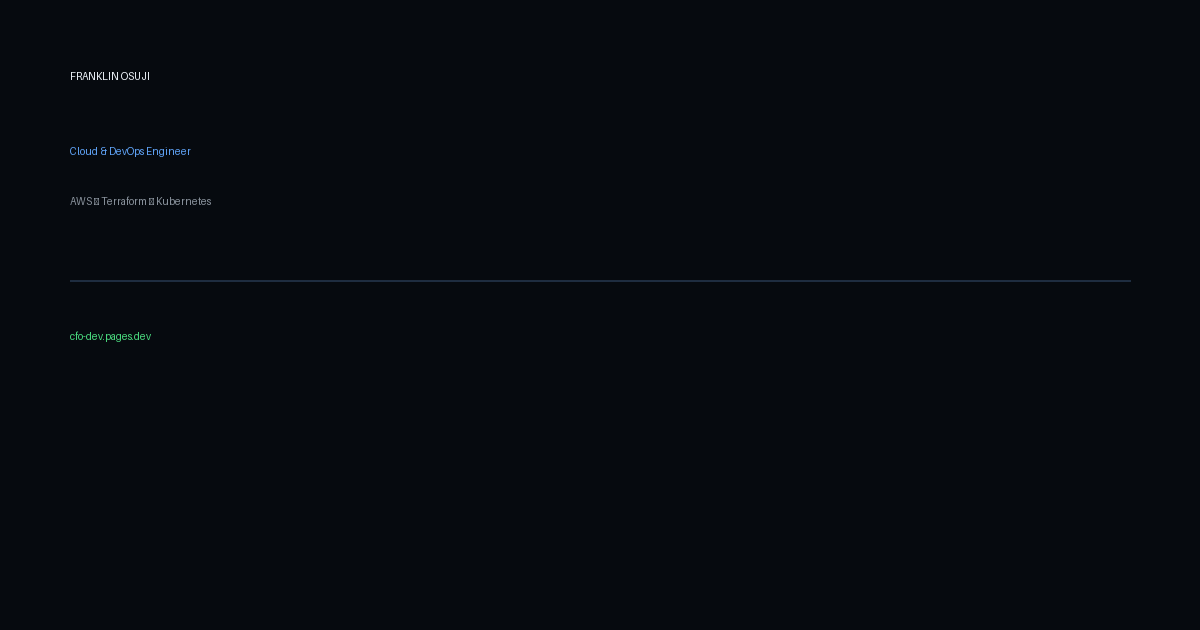
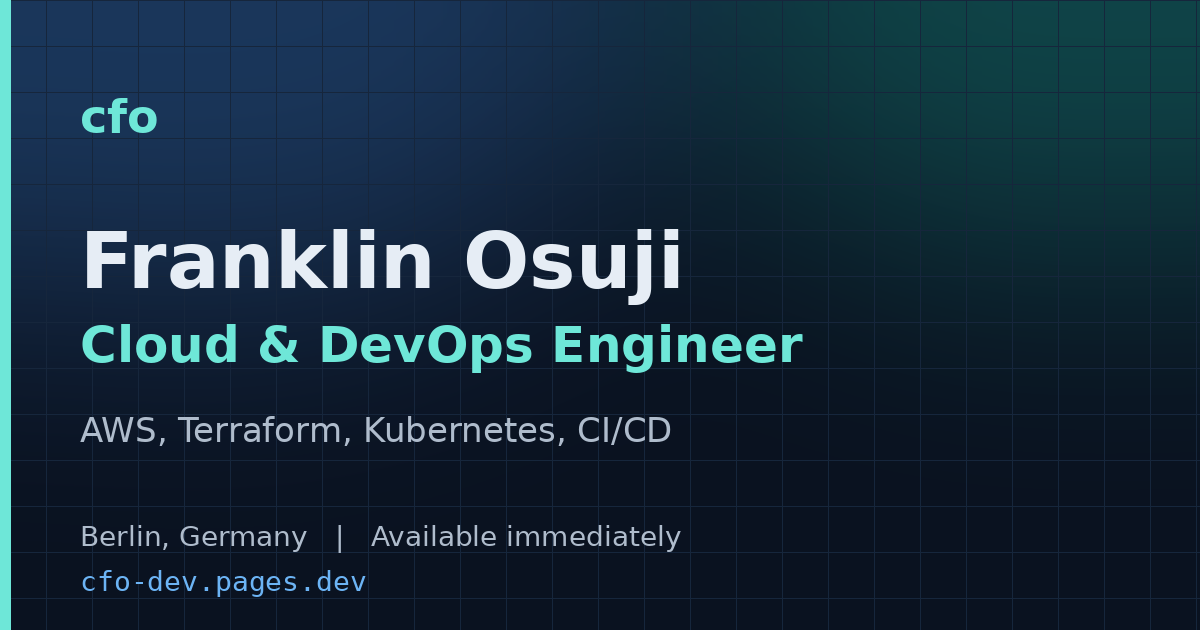
Redesign: new colour scheme, coloured headings, cfo brand

diff --git a/app/globals.css b/app/globals.css
@@ -1,38 +1,53 @@
-@import url("https://fonts.googleapis.com/css2?family=IBM+Plex+Mono:wght@400;500&family=IBM+Plex+Sans:wght@400;500;600&display=swap");
+@import url("https://fonts.googleapis.com/css2?family=IBM+Plex+Mono:wght@400;500&family=IBM+Plex+Sans:wght@400;500;600&family=Sora:wght@600;700&display=swap");
 @tailwind base;
 @tailwind components;
 @tailwind utilities;
 
-/* Palette: navy base taken from the CV (#16324A family), one blue accent, status colours only where they carry meaning. */
+/* Palette: deep navy base from the CV, a teal-mint colour reserved for headings, a blue accent for links and buttons.
+   Status colours (green, amber) appear only on credential status. */
 :root,
 [data-theme="dark"] {
-  --bg: #0b1520;
-  --bg-alt: #0e1b2a;
-  --surface: #12243a;
-  --border: #223a52;
-  --text: #e8eef4;
-  --text-2: #a7b6c6;
-  --text-3: #7a8ca0;
-  --accent: #5aa9e6;
-  --accent-ink: #06121f;
-  --ok: #2dd4bf;
-  --warn: #f59e0b;
-  --focus: #8cc4f0;
+  --bg: #0a1220;
+  --bg-alt: #0d182a;
+  --surface: #111f34;
+  --surface-2: #15263e;
+  --border: #1f3550;
+  --border-strong: #2c4666;
+  --text: #afbccc;
+  --text-strong: #e6edf5;
+  --text-3: #7e91a8;
+  --heading: #6ee7d8;
+  --accent: #6cb4f5;
+  --accent-ink: #07111f;
+  --ok: #4ade80;
+  --warn: #f5b04a;
+  --focus: #9cccf8;
+  --glow-1: rgba(70, 130, 205, 0.24);
+  --glow-2: rgba(45, 212, 191, 0.13);
+  --grid: rgba(120, 165, 215, 0.075);
+  --shadow: 0 28px 60px -30px rgba(0, 0, 0, 0.7);
 }
 
 [data-theme="light"] {
-  --bg: #f7f9fc;
-  --bg-alt: #eef3f9;
+  --bg: #f3f7fb;
+  --bg-alt: #e9f0f7;
   --surface: #ffffff;
-  --border: #d5dfea;
-  --text: #14202e;
-  --text-2: #41546a;
-  --text-3: #5c6f84;
+  --surface-2: #f7fafd;
+  --border: #d2deea;
+  --border-strong: #b8cadb;
+  --text: #34465b;
+  --text-strong: #14202e;
+  --text-3: #5a6d82;
+  --heading: #0b6e75;
   --accent: #1f5f99;
   --accent-ink: #ffffff;
-  --ok: #0f766e;
+  --ok: #15803d;
   --warn: #b45309;
   --focus: #1f5f99;
+  --glow-1: rgba(70, 130, 205, 0.16);
+  --glow-2: rgba(45, 212, 191, 0.16);
+  --grid: rgba(30, 80, 130, 0.07);
+  --shadow: 0 24px 50px -28px rgba(20, 50, 90, 0.35);
 }
 
 * { box-sizing: border-box; }
@@ -56,10 +71,12 @@ a:focus-visible, button:focus-visible { outline: 2px solid var(--focus); outline
 
 code { font-family: "IBM Plex Mono", ui-monospace, Menlo, Consolas, monospace; font-size: 0.85rem; }
 
-h1, h2, h3, h4 { margin: 0; color: var(--text); }
+/* All headings share one colour that differs from the body text */
+h1, h2, h3, h4 { margin: 0; color: var(--heading); font-family: "Sora", "IBM Plex Sans", system-ui, sans-serif; }
 
-.container { max-width: 1080px; margin: 0 auto; padding: 0 24px; }
+.container { max-width: 1080px; margin: 0 auto; padding: 0 24px; position: relative; }
 .container.narrow > * { max-width: 760px; }
+.container.narrow > .steps { max-width: none; }
 
 .skip-link { position: absolute; left: -999px; top: 8px; background: var(--accent); color: var(--accent-ink); padding: 8px 12px; z-index: 50; border-radius: 4px; }
 .skip-link:focus { left: 12px; }
@@ -69,134 +86,162 @@ h1, h2, h3, h4 { margin: 0; color: var(--text); }
   display: inline-block;
   background: var(--accent);
   color: var(--accent-ink);
-  padding: 10px 16px;
+  padding: 10px 18px;
   border: 1px solid var(--accent);
-  border-radius: 4px;
+  border-radius: 6px;
   font: inherit;
   font-size: 0.9rem;
   font-weight: 600;
   text-decoration: none;
   cursor: pointer;
+  box-shadow: 0 8px 20px -10px var(--accent);
 }
 .btn:hover { text-decoration: none; filter: brightness(1.08); }
-.btn-quiet { background: transparent; color: var(--text); border-color: var(--border); }
-.btn-quiet:hover { border-color: var(--text-3); filter: none; }
-.btn-small { padding: 6px 12px; font-size: 0.85rem; }
+.btn-quiet { background: transparent; color: var(--text-strong); border-color: var(--border-strong); box-shadow: none; }
+.btn-quiet:hover { border-color: var(--heading); filter: none; }
+.btn-small { padding: 6px 12px; font-size: 0.85rem; box-shadow: none; }
 .text-link { color: var(--accent); font-size: 0.92rem; }
 
 /* Navigation */
-.nav { position: sticky; top: 0; z-index: 40; background: var(--bg); border-bottom: 1px solid var(--border); }
-.nav-inner { display: flex; align-items: center; justify-content: space-between; min-height: 60px; gap: 16px; }
-.nav-brand { color: var(--text); font-weight: 600; text-decoration: none; }
-.nav-brand:hover { text-decoration: none; }
+.nav { position: sticky; top: 0; z-index: 40; background: color-mix(in srgb, var(--bg) 88%, transparent); backdrop-filter: blur(10px); border-bottom: 1px solid var(--border); }
+.nav-inner { display: flex; align-items: center; justify-content: space-between; min-height: 62px; gap: 16px; }
+.nav-brand { font-family: "Sora", system-ui, sans-serif; font-size: 1.35rem; font-weight: 700; letter-spacing: -0.02em; color: var(--heading); text-decoration: none; }
+.nav-brand:hover { text-decoration: none; filter: brightness(1.1); }
 .nav-links { display: flex; align-items: center; gap: 22px; }
-.nav-links > a:not(.btn) { color: var(--text-2); font-size: 0.9rem; text-decoration: none; }
-.nav-links > a:not(.btn):hover { color: var(--text); }
+.nav-links > a:not(.btn) { color: var(--text); font-size: 0.9rem; text-decoration: none; }
+.nav-links > a:not(.btn):hover { color: var(--text-strong); }
 .theme-toggle, .nav-menu {
-  background: transparent; color: var(--text-2); border: 1px solid var(--border); border-radius: 4px;
+  background: transparent; color: var(--text); border: 1px solid var(--border-strong); border-radius: 6px;
   padding: 6px 10px; font: inherit; font-size: 0.82rem; cursor: pointer;
 }
-.theme-toggle:hover, .nav-menu:hover { color: var(--text); border-color: var(--text-3); }
+.theme-toggle:hover, .nav-menu:hover { color: var(--text-strong); border-color: var(--heading); }
 .nav-menu { display: none; }
 
-/* Hero */
-.hero { padding: 72px 0 80px; }
+/* Hero: soft colour wash plus a faint blueprint grid that fades out */
+.hero { position: relative; overflow: hidden; padding: 80px 0 92px; }
+.hero::before {
+  content: ""; position: absolute; inset: 0; pointer-events: none;
+  background:
+    radial-gradient(900px 440px at 8% -12%, var(--glow-1), transparent 70%),
+    radial-gradient(720px 400px at 96% 6%, var(--glow-2), transparent 70%);
+}
+.hero::after {
+  content: ""; position: absolute; inset: 0; pointer-events: none;
+  background-image: linear-gradient(var(--grid) 1px, transparent 1px), linear-gradient(90deg, var(--grid) 1px, transparent 1px);
+  background-size: 46px 46px;
+  -webkit-mask-image: linear-gradient(to bottom, #000 0%, transparent 80%);
+  mask-image: linear-gradient(to bottom, #000 0%, transparent 80%);
+}
 .hero-grid { display: grid; grid-template-columns: minmax(0, 1.3fr) minmax(0, 0.7fr); gap: 56px; align-items: start; }
-.hero-name { margin: 0 0 14px; color: var(--text-2); font-weight: 500; }
-.hero h1 { font-size: clamp(2.1rem, 4vw, 3.1rem); line-height: 1.08; letter-spacing: -0.02em; font-weight: 600; }
-.hero-lead { margin: 22px 0 28px; max-width: 58ch; color: var(--text-2); font-size: 1.125rem; }
+.hero-name { margin: 0 0 14px; color: var(--accent); font-weight: 500; letter-spacing: 0.01em; }
+.hero h1 { font-size: clamp(2.1rem, 4vw, 3.1rem); line-height: 1.1; letter-spacing: -0.025em; font-weight: 700; }
+.hero-lead { margin: 22px 0 28px; max-width: 58ch; color: var(--text); font-size: 1.125rem; }
 
 .facts { margin: 0 0 30px; max-width: 640px; }
 .facts > div { display: grid; grid-template-columns: 104px 1fr; gap: 16px; padding: 8px 0; border-top: 1px solid var(--border); }
 .facts > div:last-child { border-bottom: 1px solid var(--border); }
 .facts dt { color: var(--text-3); font-size: 0.875rem; }
-.facts dd { margin: 0; font-size: 0.95rem; }
+.facts dd { margin: 0; font-size: 0.95rem; color: var(--text-strong); }
 
 .hero-actions { display: flex; flex-wrap: wrap; align-items: center; gap: 12px 18px; }
 
-/* Build panel: the one place that moves, once, on page load */
-.build-panel { background: var(--surface); border: 1px solid var(--border); border-radius: 6px; padding: 22px; }
-.build-panel h2 { font-size: 1rem; font-weight: 600; margin-bottom: 8px; }
-.stages { list-style: none; margin: 0 0 14px; padding: 0; }
-.stages li {
-  display: flex; justify-content: space-between; align-items: baseline; gap: 12px;
-  padding: 10px 0; border-top: 1px solid var(--border);
-  opacity: 0; animation: stage-in 0.45s ease-out forwards;
+/* Build panel: stages sit on a connected line, appearing one after another once on load */
+.build-panel {
+  background: linear-gradient(180deg, var(--surface-2), var(--surface));
+  border: 1px solid var(--border-strong); border-radius: 10px; padding: 24px; box-shadow: var(--shadow);
 }
-.stage-name { font-size: 0.95rem; }
+.build-panel h2 { font-size: 1rem; font-weight: 600; margin-bottom: 12px; }
+.stages { list-style: none; margin: 0 0 16px; padding: 0 0 0 26px; }
+.stages li {
+  position: relative; display: flex; justify-content: space-between; align-items: baseline; gap: 12px;
+  padding: 11px 0; opacity: 0; animation: stage-in 0.45s ease-out forwards;
+}
+.stages li::before {
+  content: ""; position: absolute; left: -26px; top: 50%; width: 10px; height: 10px; margin-top: -5px; border-radius: 50%;
+  background: var(--heading); box-shadow: 0 0 0 4px color-mix(in srgb, var(--heading) 18%, transparent);
+}
+.stages li:not(:last-child)::after {
+  content: ""; position: absolute; left: -22px; top: calc(50% + 6px); width: 2px; height: calc(100% - 2px); background: var(--border-strong);
+}
+.stage-name { font-size: 0.95rem; color: var(--text-strong); }
 .stages code { color: var(--text-3); }
 @keyframes stage-in { from { opacity: 0; transform: translateX(-8px); } to { opacity: 1; transform: none; } }
 
 .build-meta { margin: 0 0 16px; }
-.build-meta > div { display: flex; justify-content: space-between; gap: 12px; padding: 6px 0; border-top: 1px solid var(--border); font-size: 0.875rem; }
+.build-meta > div { display: flex; justify-content: space-between; gap: 12px; padding: 7px 0; border-top: 1px solid var(--border); font-size: 0.875rem; }
 .build-meta dt { color: var(--text-3); }
-.build-meta dd { margin: 0; text-align: right; overflow-wrap: anywhere; }
+.build-meta dd { margin: 0; text-align: right; overflow-wrap: anywhere; color: var(--text-strong); }
 .build-meta a { text-decoration: none; }
 .build-status { display: flex; align-items: center; justify-content: space-between; gap: 12px; flex-wrap: wrap; }
 .build-status img { display: block; height: 20px; width: auto; min-width: 96px; }
 
 /* Sections */
-.section { padding: 72px 0; border-top: 1px solid var(--border); }
-.section h2 { font-size: 1.75rem; line-height: 1.2; letter-spacing: -0.01em; font-weight: 600; margin-bottom: 12px; }
-.section-intro { margin: 0 0 40px; max-width: 62ch; color: var(--text-2); }
+.section { padding: 80px 0; border-top: 1px solid var(--border); }
+.section-alt { background: var(--bg-alt); }
+.section h2 { font-size: 1.85rem; line-height: 1.2; letter-spacing: -0.02em; font-weight: 700; margin-bottom: 12px; }
+.section-intro { margin: 0 0 44px; max-width: 62ch; color: var(--text); }
 .plain-list { list-style: none; margin: 0; padding: 0; }
-.plain-list li { position: relative; padding-left: 18px; margin: 6px 0; }
-.plain-list li::before { content: ""; position: absolute; left: 0; top: 0.8em; width: 8px; height: 1px; background: var(--text-3); }
+.plain-list li { position: relative; padding-left: 20px; margin: 7px 0; }
+.plain-list li::before { content: ""; position: absolute; left: 0; top: 0.75em; width: 9px; height: 2px; border-radius: 1px; background: var(--heading); opacity: 0.7; }
 
 /* Projects */
-.project { display: grid; grid-template-columns: minmax(0, 0.9fr) minmax(0, 1.1fr); gap: 44px; padding: 44px 0; border-top: 1px solid var(--border); align-items: start; }
+.project { display: grid; grid-template-columns: minmax(0, 0.9fr) minmax(0, 1.1fr); gap: 48px; padding: 48px 0; border-top: 1px solid var(--border); align-items: start; }
 .project:first-of-type { border-top: 0; padding-top: 8px; }
-.project h3 { font-size: 1.5rem; font-weight: 600; letter-spacing: -0.01em; }
-.project h3 a { color: var(--text); text-decoration: none; }
-.project h3 a:hover { color: var(--accent); }
-.project-lead { margin: 10px 0 4px; color: var(--text-2); max-width: 56ch; }
-.project h4 { margin: 22px 0 6px; font-size: 0.875rem; font-weight: 600; color: var(--text-3); }
-.stack { margin: 0; color: var(--text-2); font-size: 0.92rem; }
+.project h3 { font-size: 1.5rem; font-weight: 700; letter-spacing: -0.02em; }
+.project h3 a { color: var(--heading); text-decoration: none; }
+.project h3 a:hover { text-decoration: underline; }
+.project-lead { margin: 10px 0 4px; color: var(--text-strong); max-width: 56ch; }
+.project h4 { margin: 22px 0 6px; font-size: 0.875rem; font-weight: 600; }
+.stack { margin: 0; color: var(--text); font-size: 0.92rem; }
 .project-text p { margin: 14px 0 0; }
-.project-figure { margin: 0; background: var(--surface); border: 1px solid var(--border); border-radius: 4px; overflow: hidden; }
+.project-figure { margin: 0; background: var(--surface); border: 1px solid var(--border-strong); border-radius: 8px; overflow: hidden; box-shadow: var(--shadow); }
 .project-figure img { display: block; width: 100%; height: auto; }
-.project-figure figcaption { padding: 8px 12px; color: var(--text-3); font-size: 0.82rem; border-top: 1px solid var(--border); }
+.project-figure figcaption { padding: 9px 14px; color: var(--text-3); font-size: 0.82rem; border-top: 1px solid var(--border); }
 .also-built { padding-top: 36px; border-top: 1px solid var(--border); }
 .also-built h3 { font-size: 1.05rem; font-weight: 600; margin-bottom: 6px; }
-.also-built p { margin: 0; color: var(--text-2); max-width: 70ch; }
+.also-built p { margin: 0; color: var(--text); max-width: 70ch; }
 
-/* How this site is built */
-.steps { list-style: none; margin: 0 0 28px; padding: 0; counter-reset: step; }
-.steps li { counter-increment: step; position: relative; padding: 18px 0 18px 52px; border-top: 1px solid var(--border); }
-.steps li:last-child { border-bottom: 1px solid var(--border); }
-.steps li::before { content: counter(step); position: absolute; left: 0; top: 20px; font-family: "IBM Plex Mono", ui-monospace, monospace; color: var(--text-3); }
+/* How this site is built: a connected three-step line */
+.steps { list-style: none; margin: 8px 0 32px; padding: 0; counter-reset: step; display: grid; grid-template-columns: repeat(3, minmax(0, 1fr)); gap: 28px; }
+.steps li { counter-increment: step; position: relative; padding-top: 58px; }
+.steps li::before {
+  content: counter(step); position: absolute; top: 0; left: 0; width: 38px; height: 38px; border-radius: 50%;
+  display: grid; place-items: center; font-family: "IBM Plex Mono", ui-monospace, monospace; font-weight: 500;
+  color: var(--heading); border: 1.5px solid var(--heading); background: var(--bg-alt);
+}
+.steps li:not(:last-child)::after { content: ""; position: absolute; top: 19px; left: 48px; right: -18px; height: 2px; background: var(--border-strong); }
 .steps h3 { font-size: 1.05rem; font-weight: 600; }
-.steps p { margin: 4px 0 0; color: var(--text-2); }
+.steps p { margin: 6px 0 0; color: var(--text); font-size: 0.95rem; }
 .link-row { display: flex; gap: 20px; flex-wrap: wrap; margin: 12px 0 0; }
 
 /* Experience */
-.role { display: grid; grid-template-columns: 210px minmax(0, 1fr); gap: 32px; padding: 30px 0; border-top: 1px solid var(--border); }
+.role { display: grid; grid-template-columns: 210px minmax(0, 1fr); gap: 32px; padding: 32px 0; border-top: 1px solid var(--border); }
 .role:first-of-type { border-top: 0; padding-top: 8px; }
-.dates { margin: 0; font-weight: 500; }
+.dates { margin: 0; font-weight: 600; color: var(--accent); }
 .role-type { margin: 2px 0 0; color: var(--text-3); font-size: 0.875rem; }
 .role h3 { font-size: 1.15rem; font-weight: 600; }
-.company { margin: 2px 0 10px; color: var(--text-2); }
-.earlier { margin: 14px 0 0; padding-top: 24px; border-top: 1px solid var(--border); color: var(--text-2); }
+.company { margin: 3px 0 10px; color: var(--text-strong); }
+.earlier { margin: 14px 0 0; padding-top: 24px; border-top: 1px solid var(--border); color: var(--text); }
 
 /* Skills */
-.skill-groups { display: grid; grid-template-columns: repeat(2, minmax(0, 1fr)); gap: 36px 56px; }
-.skill-group h3 { font-size: 1rem; font-weight: 600; padding-bottom: 8px; border-bottom: 1px solid var(--border); margin-bottom: 8px; }
+.skill-groups { display: grid; grid-template-columns: repeat(2, minmax(0, 1fr)); gap: 24px; }
+.skill-group { background: var(--surface); border: 1px solid var(--border); border-radius: 10px; padding: 22px 24px 20px; }
+.skill-group h3 { font-size: 1rem; font-weight: 600; padding-bottom: 10px; border-bottom: 1px solid var(--border); margin-bottom: 6px; }
 .skill-group dl { margin: 0; }
-.skill-group dt { font-weight: 500; margin-top: 10px; }
-.skill-group dd { margin: 0; color: var(--text-2); font-size: 0.92rem; }
-.also { margin: 40px 0 0; color: var(--text-2); }
+.skill-group dt { font-weight: 500; margin-top: 12px; color: var(--text-strong); }
+.skill-group dd { margin: 0; color: var(--text); font-size: 0.92rem; }
+.also { margin: 36px 0 0; color: var(--text); }
 
 /* Credentials */
 .credentials { list-style: none; margin: 24px 0 0; padding: 0; }
-.credentials li { display: flex; justify-content: space-between; gap: 24px; padding: 18px 0; border-top: 1px solid var(--border); }
+.credentials li { display: flex; justify-content: space-between; align-items: center; gap: 24px; padding: 18px 0; border-top: 1px solid var(--border); }
 .credentials li:last-child { border-bottom: 1px solid var(--border); }
 .credentials h3 { font-size: 1rem; font-weight: 600; }
-.issuer { margin: 2px 0 0; color: var(--text-2); font-size: 0.9rem; }
-.credential-side { text-align: right; flex-shrink: 0; }
-.status { margin: 0; font-size: 0.9rem; font-weight: 500; }
+.issuer { margin: 2px 0 0; color: var(--text); font-size: 0.9rem; }
+.credential-side { text-align: right; flex-shrink: 0; display: flex; flex-direction: column; align-items: flex-end; gap: 4px; }
+.status { margin: 0; display: inline-block; padding: 2px 11px; border: 1px solid currentColor; border-radius: 999px; font-size: 0.82rem; font-weight: 500; }
 .status-done { color: var(--ok); }
 .status-progress { color: var(--warn); }
-.credential-side .text-link { display: inline-block; margin-top: 2px; }
 
 /* Contact and footer */
 .contact-list { list-style: none; margin: 0; padding: 0; }
@@ -212,15 +257,21 @@ h1, h2, h3, h4 { margin: 0; color: var(--text); }
   .skill-groups { grid-template-columns: 1fr; }
   .role { grid-template-columns: 1fr; gap: 6px; }
   .nav-menu { display: inline-block; }
-  .nav-links { display: none; position: absolute; top: 60px; left: 0; right: 0; flex-direction: column; align-items: flex-start; gap: 14px; padding: 18px 24px 24px; background: var(--bg); border-bottom: 1px solid var(--border); }
+  .nav-links { display: none; position: absolute; top: 62px; left: 0; right: 0; flex-direction: column; align-items: flex-start; gap: 14px; padding: 18px 24px 24px; background: var(--bg); border-bottom: 1px solid var(--border); }
   .nav-links.open { display: flex; }
 }
+@media (max-width: 760px) {
+  .steps { grid-template-columns: 1fr; gap: 8px; }
+  .steps li { padding: 4px 0 20px 56px; }
+  .steps li::before { top: 2px; }
+  .steps li:not(:last-child)::after { top: 44px; left: 18px; right: auto; width: 2px; height: calc(100% - 38px); }
+}
 @media (max-width: 560px) {
-  .hero { padding: 48px 0 56px; }
-  .section { padding: 52px 0; }
+  .hero { padding: 52px 0 60px; }
+  .section { padding: 56px 0; }
   .facts > div { grid-template-columns: 90px 1fr; gap: 12px; }
-  .credentials li { flex-direction: column; gap: 6px; }
-  .credential-side { text-align: left; }
+  .credentials li { flex-direction: column; align-items: flex-start; gap: 8px; }
+  .credential-side { text-align: left; align-items: flex-start; }
 }
 
 @media (prefers-reduced-motion: reduce) {

diff --git a/components/Pipeline.tsx b/components/Pipeline.tsx
@@ -19,7 +19,7 @@ export default function Pipeline() {
   const build = getBuildInfo()
 
   return (
-    <section id="pipeline" className="section" aria-labelledby="pipeline-title">
+    <section id="pipeline" className="section section-alt" aria-labelledby="pipeline-title">
       <div className="container narrow">
         <h2 id="pipeline-title">How this site is built</h2>
         <p className="section-intro">

diff --git a/components/Skills.tsx b/components/Skills.tsx
@@ -66,7 +66,7 @@ const groups: Group[] = [
 
 export default function Skills() {
   return (
-    <section id="skills" className="section" aria-labelledby="skills-title">
+    <section id="skills" className="section section-alt" aria-labelledby="skills-title">
       <div className="container">
         <h2 id="skills-title">Skills</h2>
         <p className="section-intro">

diff --git a/components/Nav.tsx b/components/Nav.tsx
@@ -19,7 +19,7 @@ export default function Nav() {
   return (
     <header className="nav">
       <div className="container nav-inner">
-        <a className="nav-brand" href="#top">Franklin Osuji</a>
+        <a className="nav-brand" href="#top" aria-label="Franklin Osuji, back to top">cfo</a>
         <button
           className="nav-menu"
           type="button"

diff --git a/components/Contact.tsx b/components/Contact.tsx
@@ -1,6 +1,6 @@
 export default function Contact() {
   return (
-    <section id="contact" className="section" aria-labelledby="contact-title">
+    <section id="contact" className="section section-alt" aria-labelledby="contact-title">
       <div className="container narrow">
         <h2 id="contact-title">Contact</h2>
         <p className="section-intro">
